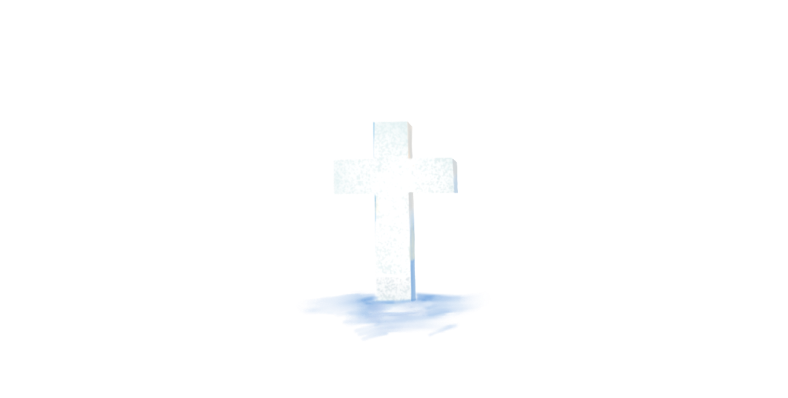
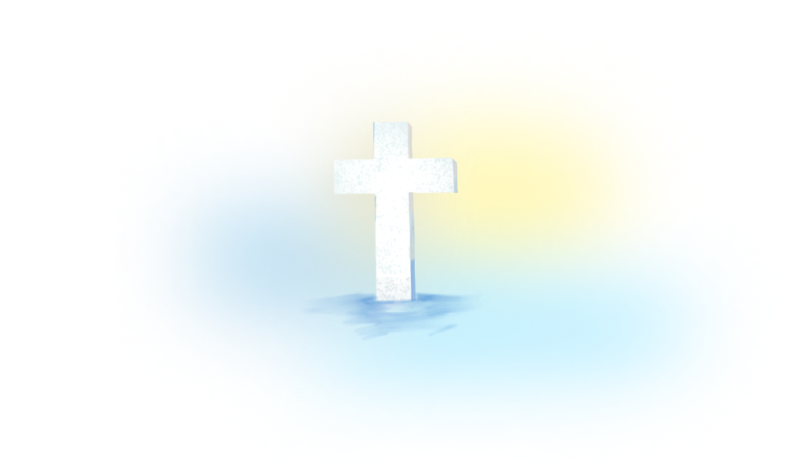
GH-1: changed image to have background

Changed region(s): [[0.2437, 0.2111, 0.8528, 0.8442]]

diff --git a/ui/src/components/easter/becauseJesus/BecauseJesus.js b/ui/src/components/easter/becauseJesus/BecauseJesus.js
@@ -30,11 +30,11 @@ const BecauseJesus = (props) => {
     <div ref={domRef}>
       <Center>
         <Box
-          h={['30em', '30em']}
-          w={['20em', '40em']}
+          h={['25em', '30em']}
+          w={['25em', '40em']}
           paddingTop={['6em', '0']}
           bgImage={process.env.PUBLIC_URL + '/images/easter/EasterCross.png'}
-          bgSize="auto"
+          bgSize={['25em', 'auto']}
           bgPosition={['center 80%', 'center 90%']}
           bgAttachment={` ${isVisible ? 'scroll' : 'fixed'}`}
           bgRepeat="no-repeat"
